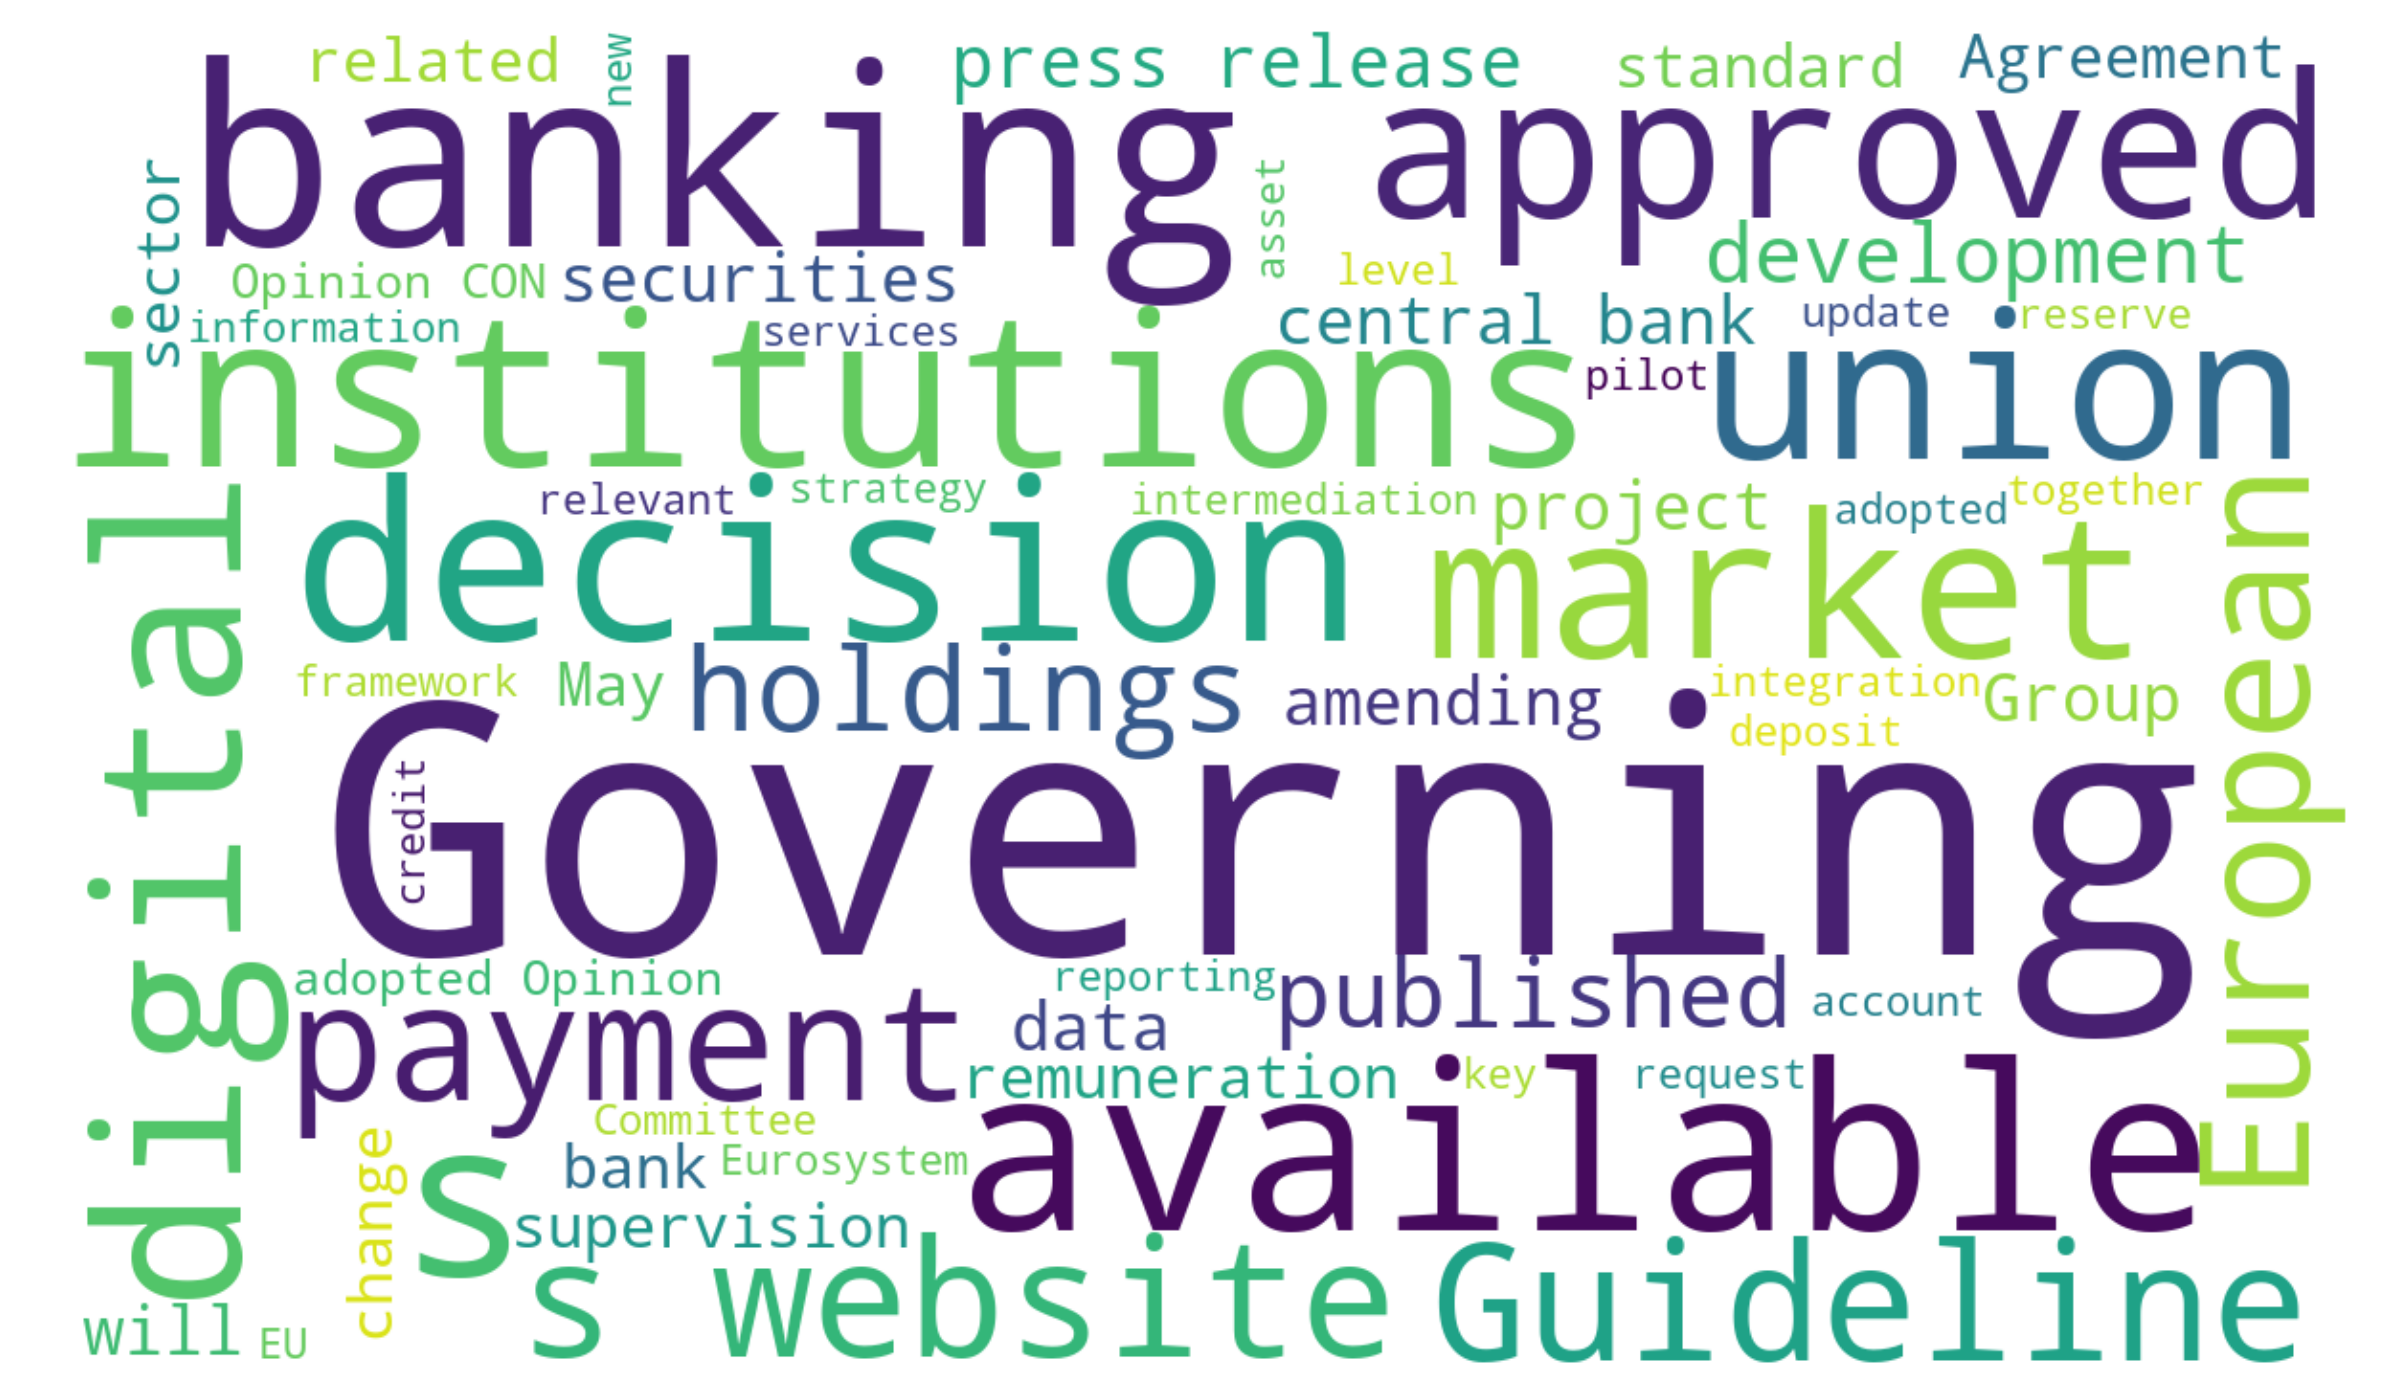
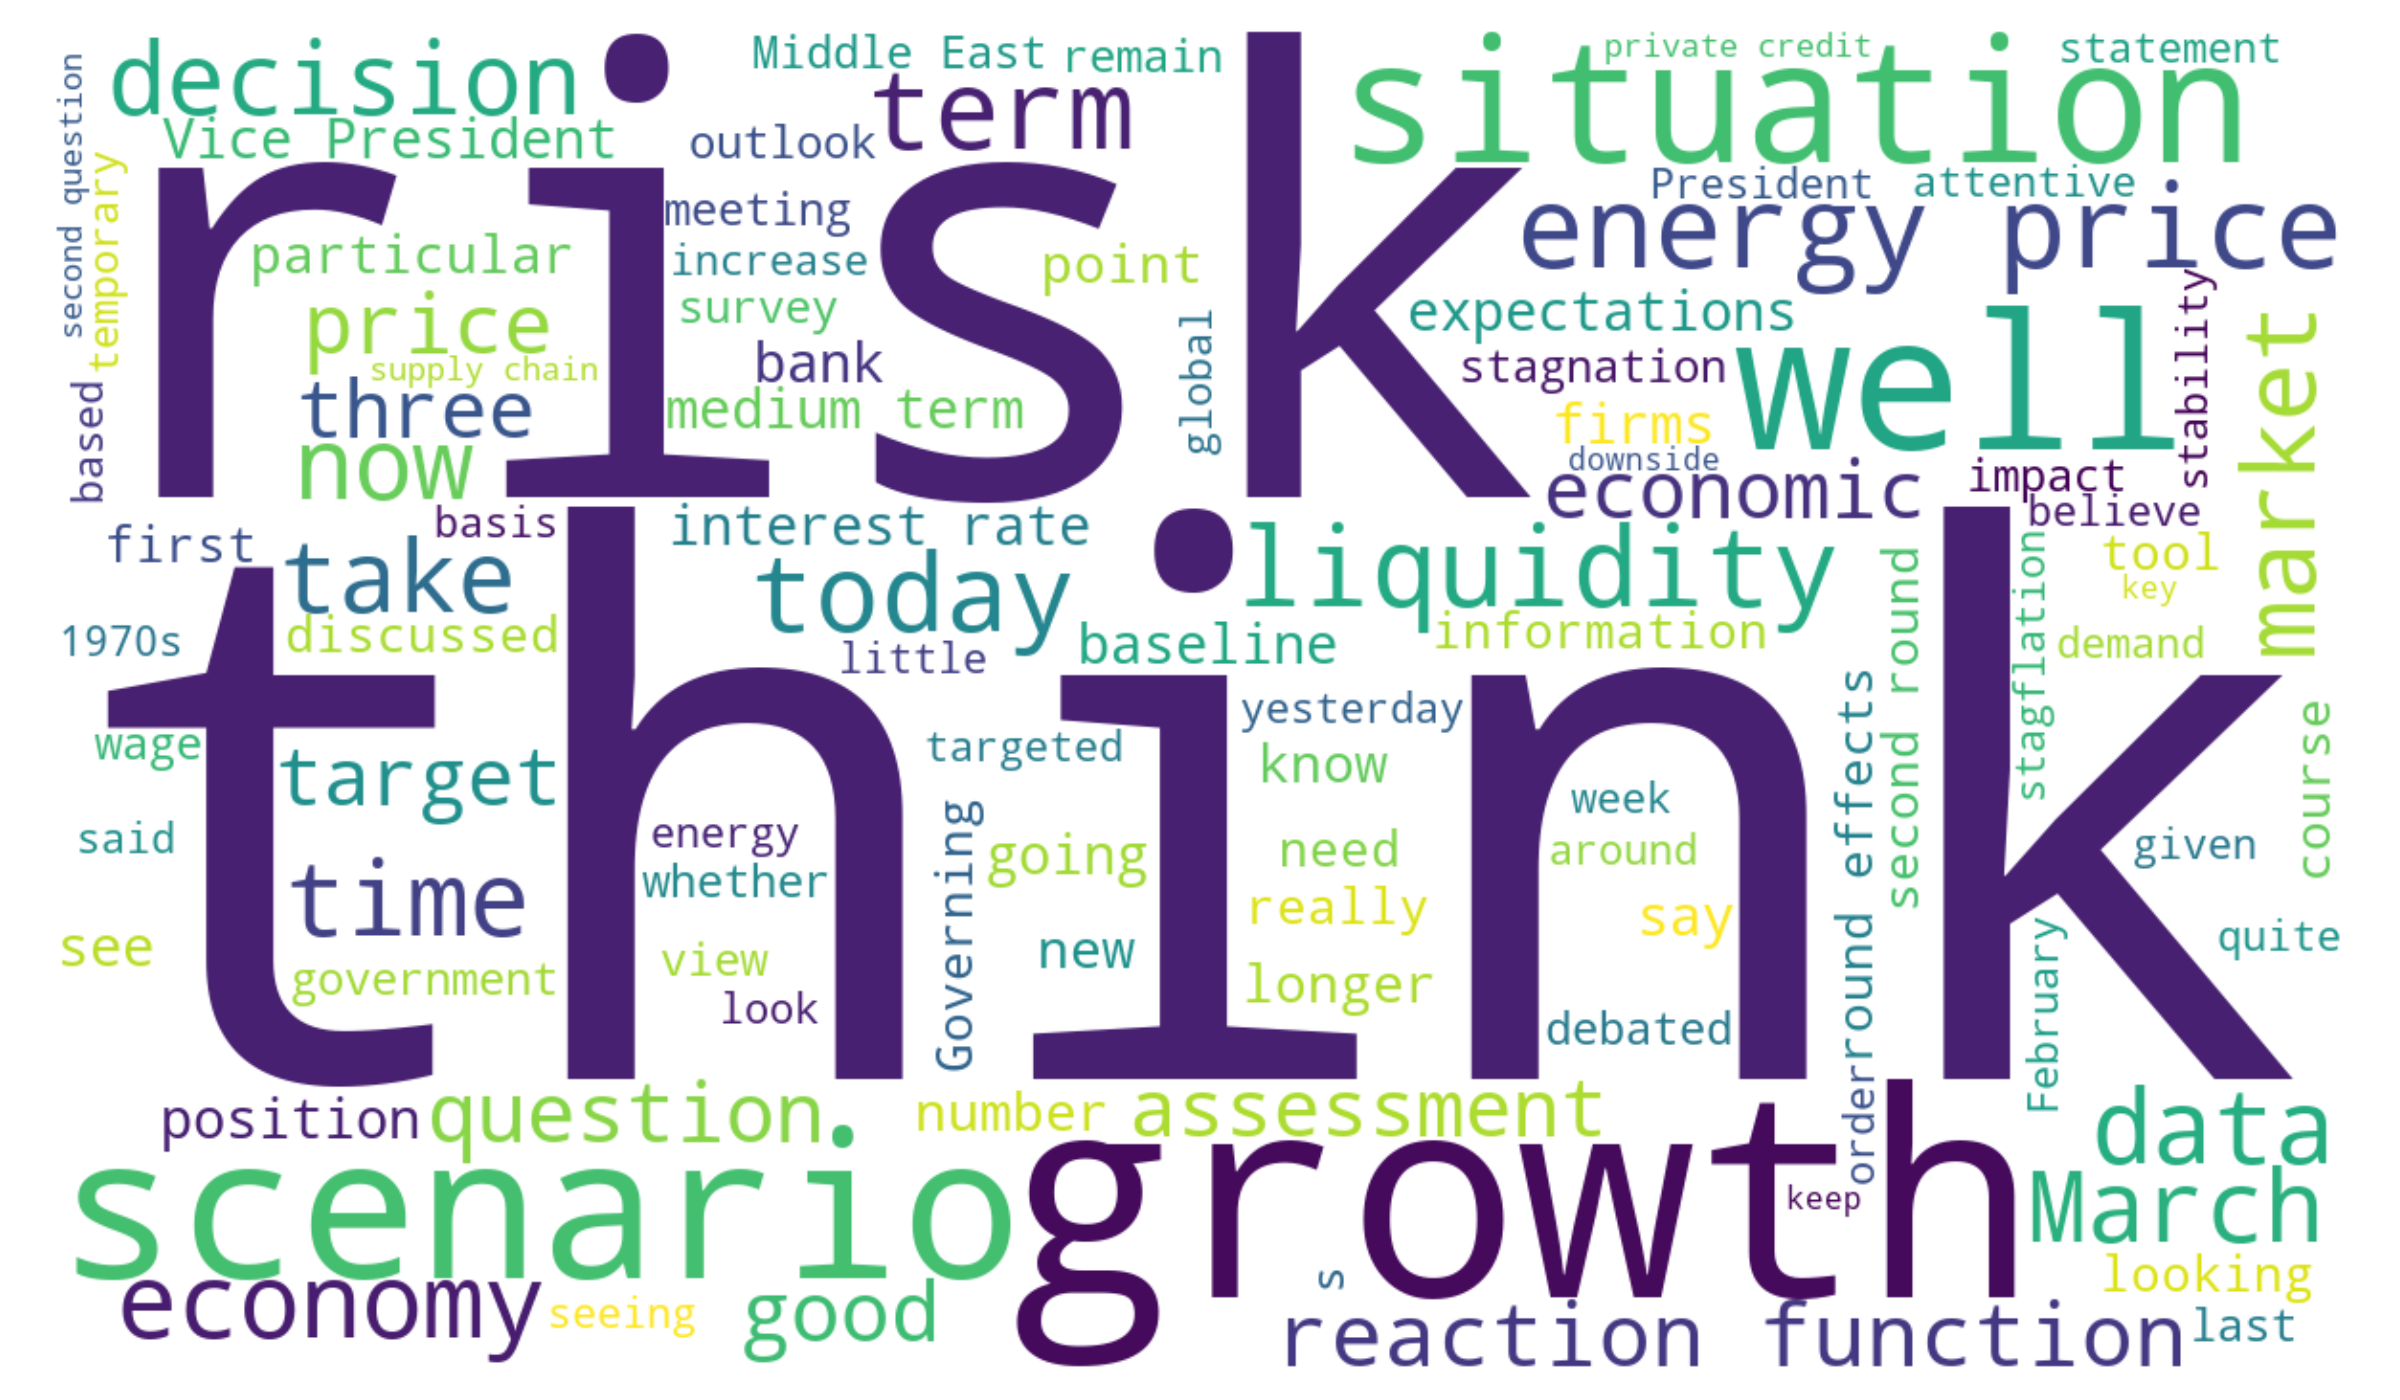
Updated with correct URL

diff --git a/scripts/ECB_text_analysis.py b/scripts/ECB_text_analysis.py
@@ -20,7 +20,7 @@ nlp.add_pipe("spacytextblob")
 
 
   # Step 3: Defining URL and creating folders for storing data and outputs
-URL = "https://www.ecb.europa.eu/press/govcdec/otherdec/2026/html/ecb.gc260504~07dc9bac72.en.html"
+URL = "https://www.ecb.europa.eu/press/press_conference/monetary-policy-statement/2026/html/ecb.is260430~f99cb123a8.en.html"
 
 DATA_DIR = Path("data")
 OUTPUT_DIR = Path("outputs")
@@ -87,7 +87,7 @@ full_text = "\n\n".join(text_blocks)
 
 
 # Step 8: Saving extracted text to local file
-text_path = DATA_DIR / "ecb_govdec_2026-05-04.txt"
+text_path = DATA_DIR / "ecb_press_conference_2026-04-30.txt"
 text_path.write_text(full_text, encoding="utf-8")
 
 
@@ -114,8 +114,7 @@ sentiment_path = OUTPUT_DIR / "ecb_paragraph_sentiment.csv"
 df.to_csv(sentiment_path, index=False, encoding="utf-8")
 
 print("\nSentiment preview:")
-print(df.head())
-
+print(df)
 
 
 # Step 11: Generating word frequency counts for auto stopword detection
@@ -127,7 +126,7 @@ raw_counts = Counter(raw_tokens)
 # Step 12: Identifying frequent words as candidate stopwords
 auto_candidates = {
     word for word, count in raw_counts.items()
-    if count > 10 and len(word) <= 6
+    if count > 15 and len(word) <= 4
 }
 
 print("\nAuto-detected stopword candidates:")
@@ -146,7 +145,7 @@ custom_stopwords.update(auto_candidates)
 
 
 
-# Step 14: Tokenizing text and computing top 50 frequent meaningful words
+# Step 14: Tokenizing text and computing top 60 frequent meaningful words
 tokens = tokenize_words(full_text, custom_stopwords)
 word_counts = Counter(tokens)
 
@@ -163,7 +162,7 @@ wordcloud = WordCloud(
     height=700,
     background_color="white",
     stopwords=custom_stopwords,
-    max_words=60,
+    max_words=100,
     colormap="viridis",
     random_state=42
 ).generate(full_text)

diff --git a/Test.py b/Test.py
@@ -1,0 +1,1 @@
+print("Hallo Leute")
